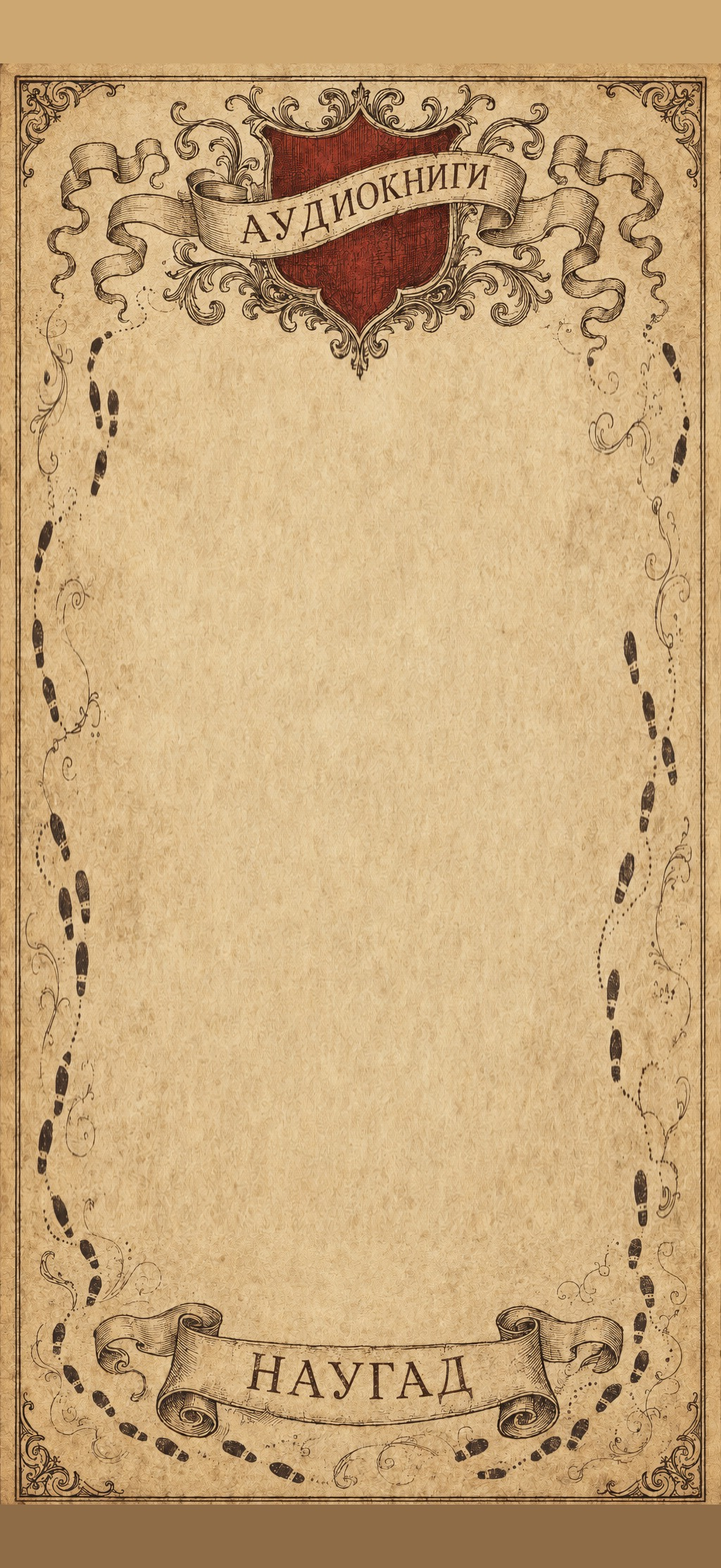
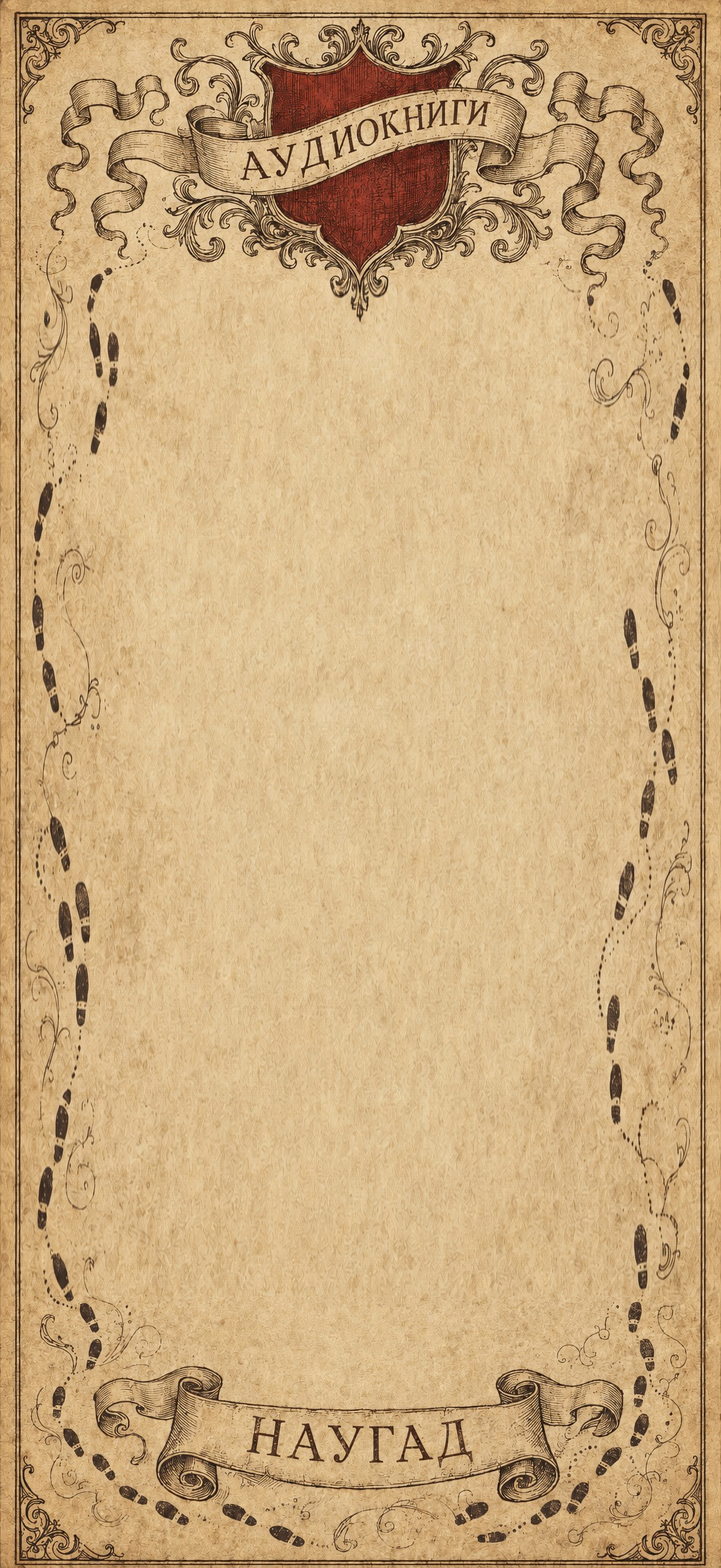
Run the pattern all the way to both edges, no margin at all
The 90px margin from the last pass was thin, but any flat unpatterned
strip still read as a gap, especially at the bottom above the toolbar.
Rebuilt with zero padding: the border itself now runs off both edges
of the sheet, so what the bars cover is the drawn pattern, not blank
parchment. Crest ends at 18.0%, ribbon spans 82.7-100% — .sheet padding
and the ribbon tap target follow.

diff --git a/style.css b/style.css
@@ -45,7 +45,7 @@ body {
   height: auto;
   overflow: hidden;
   background-color: #d9c49a;
-  background-image: url("icons/map-bg.jpg?v=4");
+  background-image: url("icons/map-bg.jpg?v=5");
   background-size: 100% 100%;
   background-position: center;
   background-repeat: no-repeat;
@@ -62,22 +62,21 @@ body {
 
 /* icons/map-bg.jpg is 1024×2225 — the proportions of the screen — and covers
    it end to end, running under the address bar and the toolbar. It was built
-   by tools/stretch_middle.py from the original 2:3 artwork: the crest and the
-   ribbon keep their drawn height, the blank middle takes the extra, and a
-   THIN margin of plain parchment (90px of the 2225, ~4%) is added top and
-   bottom so that what the browser bars cover is margin rather than artwork.
-   The first build used a much bigger margin (290/230px) meant to clear the
-   bars by a wide berth, but it read as a big dead band of empty parchment
-   even with the bars retracted — this margin only needs to be as tall as
-   the bars themselves, not taller.
+   by tools/stretch_middle.py from the original 2:3 artwork: the crest and
+   the ribbon keep their drawn height, the blank middle takes the extra.
+   Earlier builds also padded plain parchment above the crest and below the
+   ribbon to clear the Safari bars, but any flat margin reads as a gap even
+   when it is thin, and she wants the drawn pattern itself running to both
+   edges — so there is no padding now, the border runs off the top and
+   bottom of the sheet, and the bars simply sit over the artwork.
 
-   On that sheet the crest ends at 22.0% and the ribbon spans 78.6–96.0%,
+   On that sheet the crest ends at 18.0% and the ribbon spans 82.7–100%,
    which is what these paddings clear. */
 .sheet {
   /* body is now the full-screen box (see the position: fixed note above);
      100% here inherits that real size instead of recomputing its own `vh`. */
   height: 100%;
-  padding: 24vh 12% 23.5vh 12%;
+  padding: 20vh 12% 19.5vh 12%;
   display: flex;
   flex-direction: column;
   max-width: 560px;
@@ -316,7 +315,7 @@ body {
   left: 50%;
   transform: translateX(-50%);
   width: min(80vw, 448px);
-  bottom: 5.2vh;
+  bottom: 1.2vh;
   height: 16vh;
   border: none;
   background: transparent;

diff --git a/index.html b/index.html
@@ -27,7 +27,7 @@
 <!-- ?v= is a cache buster: GitHub Pages serves assets with max-age=600, so
      without it a phone keeps running the previous app.js for ten minutes
      after a deploy. Bump it whenever app.js or style.css changes. -->
-<link rel="stylesheet" href="style.css?v=16">
+<link rel="stylesheet" href="style.css?v=17">
 </head>
 <body>
 

diff --git a/sw.js b/sw.js
@@ -3,7 +3,7 @@
 // file, so listening always streams fresh over the network and nothing is
 // stored on the phone.
 
-const CACHE_NAME = "ab-shell-v16"; // bump this string whenever shell files change
+const CACHE_NAME = "ab-shell-v17"; // bump this string whenever shell files change
 const SHELL_FILES = [
   "./",
   "./index.html",
